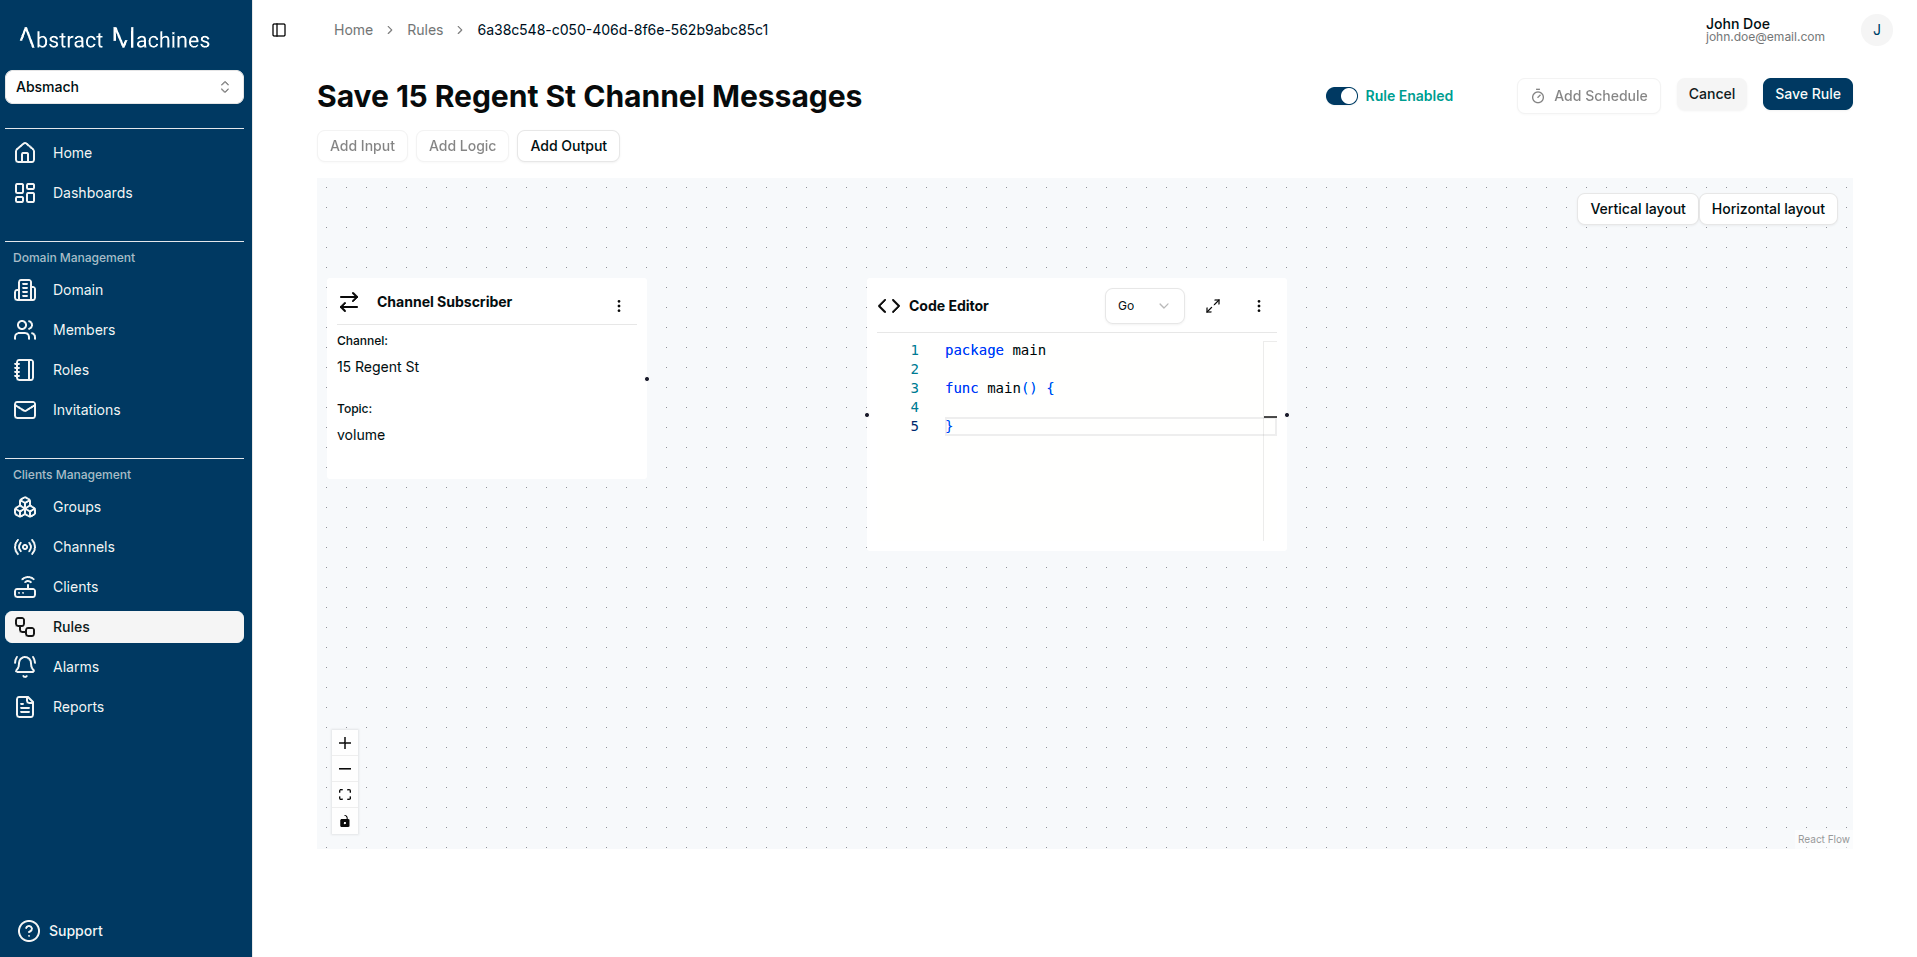
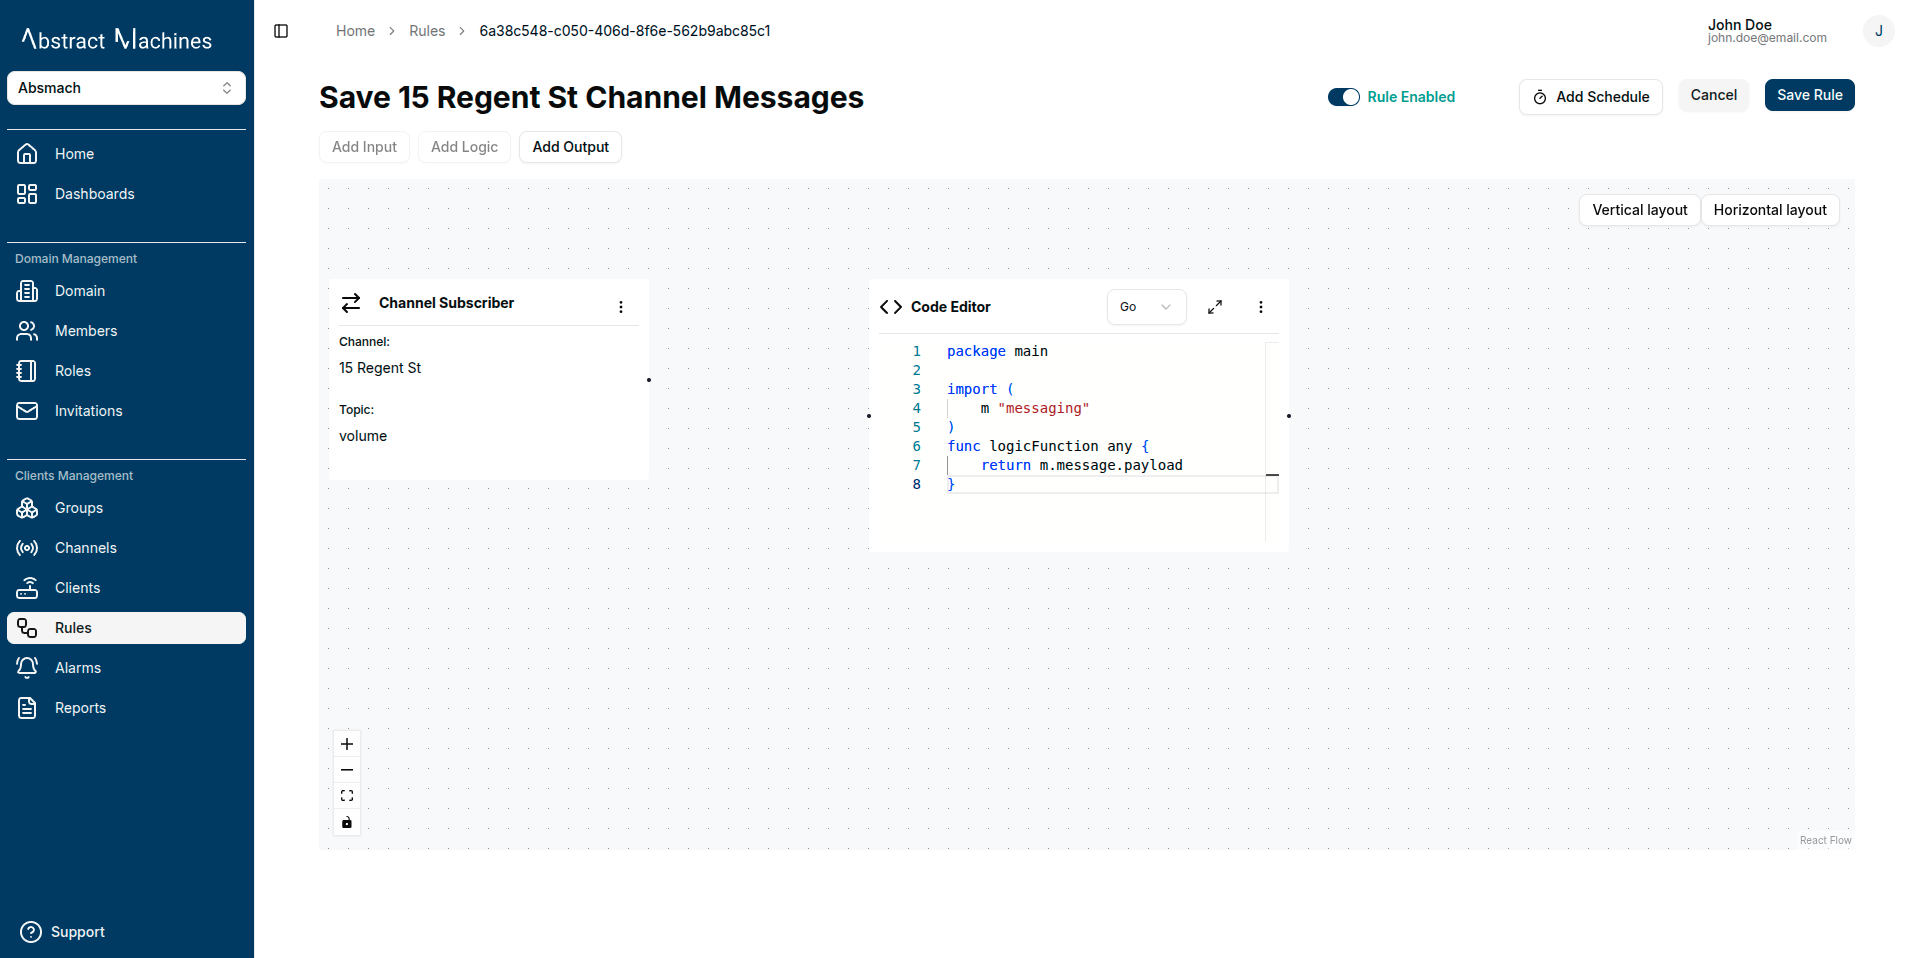
Fix: Add go code

diff --git a/docs/user-guide/alarms.md b/docs/user-guide/alarms.md
@@ -82,7 +82,7 @@ To create an alarm, first define an alarm rule in the Rules Engine.
 
 Below is a Lua script example for checking temperature thresholds:
 
-```Lua title="Check if temperature exceeds defined thresholds"
+```Lua title="Lua script"
 function logicFunction()
     local results = {}
     local threshold = 30
@@ -115,6 +115,75 @@ function logicFunction()
 
     return results
 end
+```
+
+```go title="Go script"
+package main
+
+import (
+	m "messaging"
+	"fmt"
+	"strconv"
+)
+
+
+type alarm struct {
+	Measurement string
+	Value       string
+	Threshold   string
+	Cause       string
+	Unit        string
+	Severity    uint8
+}
+
+func logicFunction() any {
+	results := []alarm{}
+	threshold := 30.0
+	pld, ok := m.message.Payload.([]any)
+	if !ok {
+		panic("invalid payload")
+	}
+	for _, m := range pld {
+		if m == nil {
+			continue
+		}
+		msg, ok := m.(map[string]any)
+		if !ok {
+			panic("not map")
+		}
+
+		value := msg["v"].(float64)
+		unit := msg["u"].(string)
+		msmnt := msg["n"].(string)
+		var severity uint8
+		var cause string
+
+		switch {
+		case value >= threshold*1.5:
+			severity = 5
+			cause = "Critical level exceeded"
+		case value >= threshold*1.2:
+			severity = 4
+			cause = "High level detected"
+		case value >= threshold:
+			severity = 3
+			cause = "Threshold reached"
+		}
+
+		result := alarm{
+			Measurement: msmnt,
+			Value:       strconv.FormatFloat(value, 'f', -1, 64),
+			Threshold:   strconv.FormatFloat(threshold, 'f', -1, 64),
+			Cause:       cause,
+			Unit:        unit,
+			Severity:    severity,
+		}
+		results = append(results, result)
+	}
+	fmt.Println("returning", len(results))
+
+	return results
+}
 ```
 
 :::info

diff --git a/docs/user-guide/rules-engine.md b/docs/user-guide/rules-engine.md
@@ -158,7 +158,14 @@ Write Go-based logic for advanced use cases. Return a value or struct:
 Example:
 
 ```go
+  package main
 
+  import (
+      m "messaging"
+  )
+  func logicFunction() any {
+      return m.message.Payload
+  }
 ```
 
 > **Note:**  
@@ -350,9 +357,9 @@ Assume your incoming payload is:
 }
 ```
 
-Use the following Lua script to convert it:
+Use the following scripts to convert it:
 
-```Lua
+```Lua title="Lua script"
 function logicFunction()
   return {
     n = message.payload.sensor,
@@ -360,6 +367,21 @@ function logicFunction()
     u = message.payload.unit
   }
 end
+```
+
+```go title="Go script"
+package main
+import (
+  m "messaging"
+)
+
+func logicFunction() any {
+return {
+    n: m.message.payload.sensor,
+    v: m.message.payload.temperature,
+    u: m.message.payload.unit
+  }
+}
 ```
 
 > This returns a valid SenML message the internal DB will accept.
@@ -371,12 +393,23 @@ Then set your output node to store this result using the Magistrala internal DB 
 
 ### Example: Input is SenML
 
-If your message payload is already SenML format, you can just return the message payload directly in your Lua script function:
+If your message payload is already SenML format, you can just return the message payload directly in your script functions:
 
-```lua
+```lua title="Lua script"
 function logicFunction()
   return message.payload
 end
+```
+
+```go title="Go script"
+  package main
+
+  import (
+      m "messaging"
+  )
+  func logicFunction() any {
+      return m.message.Payload
+  }
 ```
 
 ![Storage with senml input](../img/rules/rule.png)
